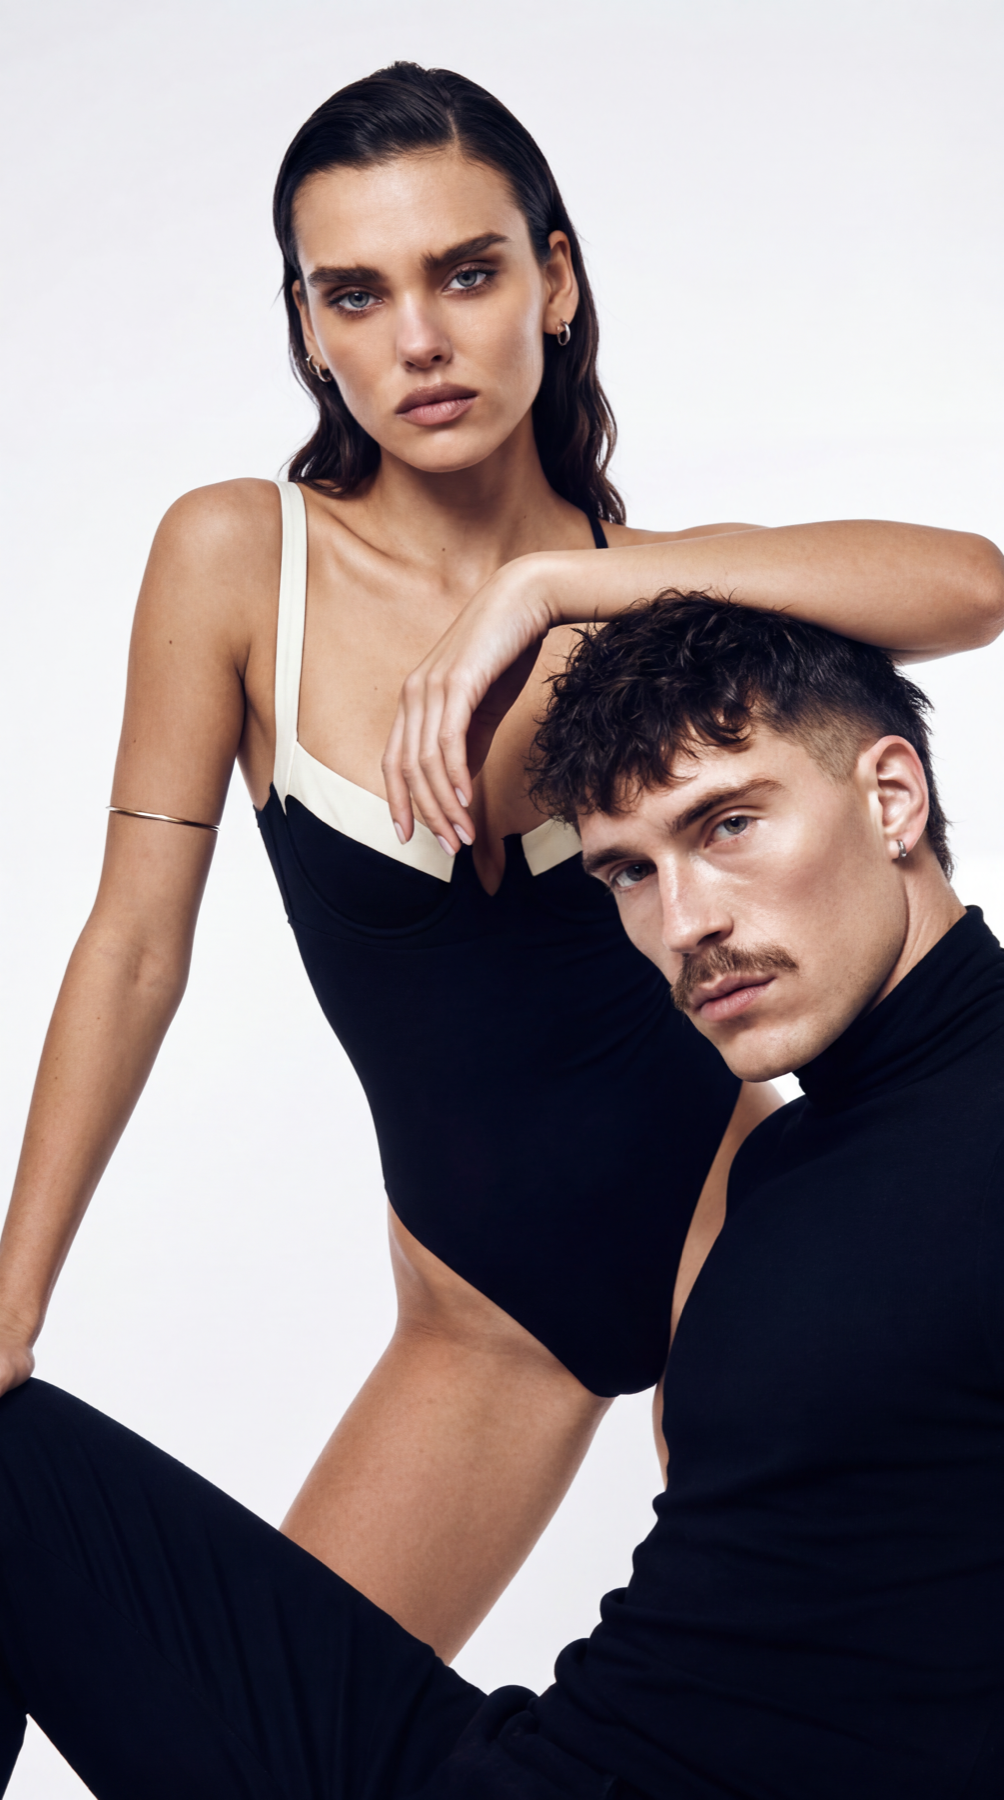
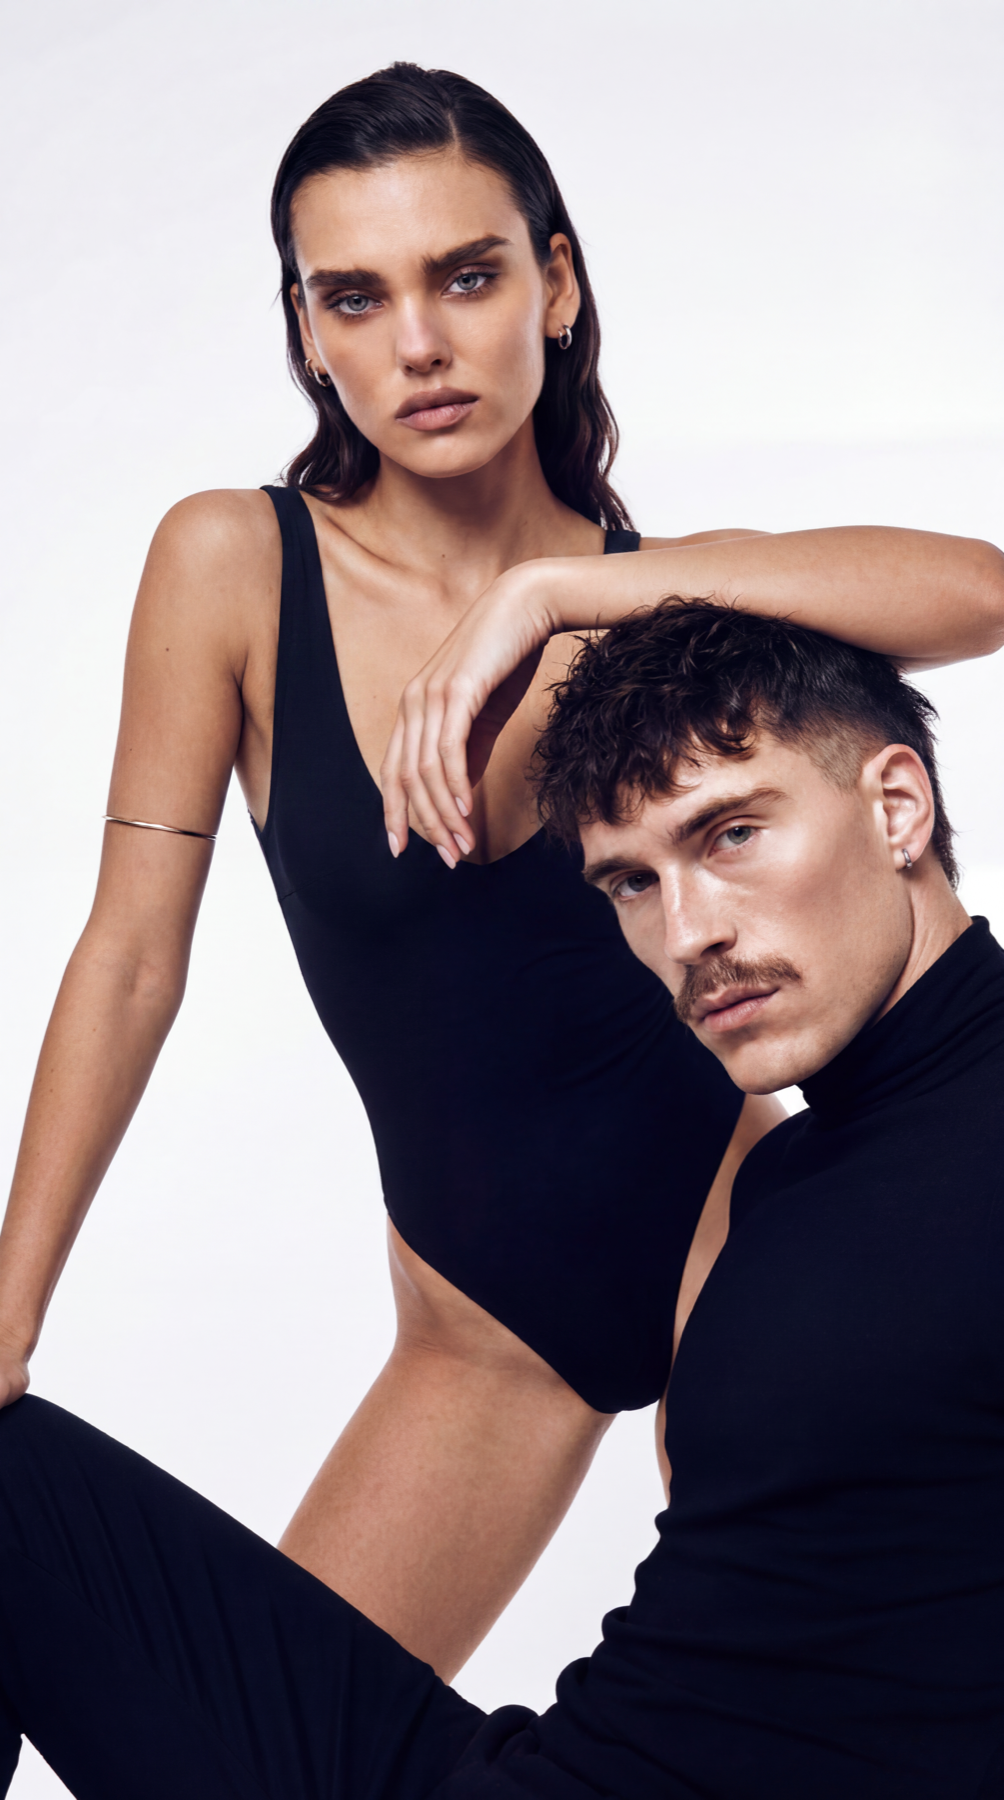
Mise à jour landing: galerie Enyo (collection rose), CTA appel & contacts
- Galerie Enyo: 3 nouveaux visuels collection rose + réorganisation
- Section process: bouton "Réserver un appel" (Calendly)
- Section À propos: liens LinkedIn + email
- Nouveaux visuels About, process et cover Monday

diff --git a/business.html b/business.html
@@ -106,18 +106,16 @@
   /* ---------- WHY ---------- */
   .why-head{display:grid;grid-template-columns:1.05fr .95fr;gap:48px;align-items:end}
   .why-head .sec-intro{padding-bottom:6px}
-  .adv-grid{display:grid;grid-template-columns:repeat(2,1fr);gap:1px;margin-top:60px;background:rgba(255,255,255,.09);border:1px solid rgba(255,255,255,.12);border-radius:24px;overflow:hidden;box-shadow:0 30px 80px -40px rgba(0,0,0,.8)}
-  .adv-card{background:rgba(16,13,11,.62);backdrop-filter:blur(14px) saturate(140%);-webkit-backdrop-filter:blur(14px) saturate(140%);padding:46px 44px;display:flex;flex-direction:column;transition:background .45s}
-  .adv-card:hover{background:rgba(28,22,18,.7)}
-  .adv-top{display:flex;justify-content:space-between;align-items:center;margin-bottom:30px}
-  .adv-idx{font-size:.74rem;font-weight:600;letter-spacing:2px;color:var(--muted)}
-  .adv-ic{width:42px;height:42px;border-radius:50%;border:1px solid var(--line);display:flex;align-items:center;justify-content:center;color:var(--gold);transition:.4s}
+  .adv-grid{display:grid;grid-template-columns:repeat(4,1fr);gap:0;margin-top:48px;border-top:1px solid rgba(255,255,255,.14)}
+  .adv-card{padding:34px 30px 0;border-left:1px solid rgba(255,255,255,.12);display:flex;flex-direction:column}
+  .adv-card:first-child{border-left:none;padding-left:0}
+  .adv-ic{width:40px;height:40px;border-radius:50%;border:1px solid var(--line);display:flex;align-items:center;justify-content:center;color:var(--gold);margin-bottom:22px;transition:.4s}
   .adv-card:hover .adv-ic{background:var(--gold);border-color:var(--gold);color:#1A140C}
-  .adv-ic svg{width:19px;height:19px;stroke:currentColor;fill:none;stroke-width:1.6;stroke-linecap:round;stroke-linejoin:round}
-  .adv-card .stat{font-size:3.4rem;font-weight:700;color:var(--white);line-height:1;letter-spacing:-.03em}
-  .adv-card .stat sup{font-size:1.2rem;color:var(--gold);font-weight:600;vertical-align:super;margin-left:2px}
-  .adv-card h3{font-size:1.3rem;margin-top:14px}
-  .adv-card p{color:var(--muted);margin-top:10px;font-size:.95rem}
+  .adv-ic svg{width:18px;height:18px;stroke:currentColor;fill:none;stroke-width:1.6;stroke-linecap:round;stroke-linejoin:round}
+  .adv-card .stat{font-size:2.7rem;font-weight:700;color:var(--white);line-height:1;letter-spacing:-.03em}
+  .adv-card .stat sup{font-size:1rem;color:var(--gold);font-weight:600;vertical-align:super;margin-left:2px}
+  .adv-card h3{font-size:1.05rem;margin-top:14px}
+  .adv-card p{color:var(--muted);margin-top:8px;font-size:.9rem;line-height:1.5}
   .adv-foot{margin-top:auto;padding-top:26px;display:flex;align-items:center;gap:9px;font-size:.83rem;font-weight:500;color:rgba(244,240,233,.85)}
   .adv-foot::before{content:"";width:18px;height:1px;background:var(--gold);flex-shrink:0}
   .bars{margin-top:24px;display:flex;flex-direction:column;gap:14px}
@@ -131,12 +129,16 @@
   .bar.hi .bv{color:var(--gold)}
 
   /* ---------- PROCESS ---------- */
-  .process-grid{display:grid;grid-template-columns:1.25fr .75fr;gap:60px;align-items:stretch}
-  .process-main{display:flex;flex-direction:column}
-  .process-grid .steps{grid-template-columns:1fr 1fr;gap:36px 32px;margin-top:auto;padding-top:48px}
-  .process-media{position:relative;border-radius:22px;overflow:hidden;background:var(--panel);border:1px solid var(--line);min-height:560px}
-  .process-media img{width:100%;height:100%;object-fit:cover;object-position:50% 25%}
-  .process-media::after{content:"";position:absolute;inset:0;z-index:1;pointer-events:none;background:linear-gradient(90deg,rgba(12,11,10,.6) 0%,transparent 26%),linear-gradient(180deg,transparent 72%,var(--bg) 100%)}
+  #process{padding:0!important}
+  .process-grid{display:grid;grid-template-columns:1.05fr .95fr;align-items:stretch;min-height:88vh}
+  .process-main{display:flex;flex-direction:column;justify-content:center;padding:120px 64px 120px max(28px,calc((100vw - 1180px)/2 + 28px))}
+  .process-grid .steps{grid-template-columns:1fr 1fr;gap:36px 32px;margin-top:56px}
+  .process-media{position:relative;overflow:hidden;background:var(--panel)}
+  .process-media img{width:100%;height:100%;object-fit:cover;object-position:50% 18%}
+  .process-media::after{content:"";position:absolute;inset:0;z-index:1;pointer-events:none;
+    background:
+      linear-gradient(90deg,var(--bg) 0%,rgba(12,11,10,.35) 14%,transparent 32%),
+      linear-gradient(180deg,transparent 75%,var(--bg) 100%);}
   .steps{display:grid;grid-template-columns:repeat(4,1fr);gap:24px;margin-top:60px}
   .step{position:relative}
   .step .num{font-size:.92rem;font-weight:600;color:var(--gold);border:1px solid rgba(201,165,114,.4);width:44px;height:44px;border-radius:50%;display:flex;align-items:center;justify-content:center;margin-bottom:22px}
@@ -228,12 +230,18 @@
     .hero-media::after{background:linear-gradient(180deg,transparent 55%,var(--bg) 100%)}
     .hero-inner{justify-self:stretch;max-width:none;padding:40px 28px 64px}
     .scroll-cue{display:none}
-    .adv-grid,.vid-grid,.steps,.proj-grid{grid-template-columns:1fr}
-    .process-grid{grid-template-columns:1fr;gap:36px}
-    .process-grid .steps{grid-template-columns:1fr 1fr;margin-top:40px;padding-top:0}
-    .process-media{order:-1;min-height:0;aspect-ratio:4/5}
+    .vid-grid,.steps,.proj-grid{grid-template-columns:1fr}
+    .adv-grid{grid-template-columns:1fr 1fr}
+    .adv-card{padding:30px 22px 0}
+    .adv-card,.adv-card:first-child{border-left:1px solid rgba(255,255,255,.12)}
+    .adv-card:nth-child(odd){border-left:none;padding-left:0}
+    .adv-card:nth-child(n+3){border-top:1px solid rgba(255,255,255,.12);padding-top:30px;margin-top:6px}
+    .process-grid{grid-template-columns:1fr;min-height:0}
+    .process-main{padding:84px 28px}
+    .process-grid .steps{grid-template-columns:1fr 1fr;margin-top:40px}
+    .process-media{order:-1;min-height:0;height:60vh}
+    .process-media::after{background:linear-gradient(180deg,transparent 60%,var(--bg) 100%)}
     .why-head{grid-template-columns:1fr;gap:18px;align-items:start}
-    .adv-card{padding:38px 30px}
     .pmodal-grid{grid-template-columns:1fr}
     .pmodal-bar{padding:18px 20px}
     .pmodal-scroll{padding:20px}
@@ -303,25 +311,25 @@
     </div>
     <div class="adv-grid">
       <div class="adv-card reveal">
-        <div class="adv-top"><span class="adv-idx">01</span><span class="adv-ic"><svg viewBox="0 0 24 24"><path d="M13 2 4 14h7l-1 8 9-12h-7l1-8z"/></svg></span></div>
+        <span class="adv-ic"><svg viewBox="0 0 24 24"><path d="M13 2 4 14h7l-1 8 9-12h-7l1-8z"/></svg></span>
         <div class="stat">7<sup data-fr="jours">days</sup></div>
         <h3 data-fr="Livraison express">Express delivery</h3>
         <p data-fr="Du brief aux fichiers finaux en une semaine.">From brief to final files in one week.</p>
       </div>
       <div class="adv-card reveal">
-        <div class="adv-top"><span class="adv-idx">02</span><span class="adv-ic"><svg viewBox="0 0 24 24"><path d="M3 12h18M3 6h18M3 18h10"/></svg></span></div>
+        <span class="adv-ic"><svg viewBox="0 0 24 24"><path d="M3 12h18M3 6h18M3 18h10"/></svg></span>
         <div class="stat">−75<sup>%</sup></div>
         <h3 data-fr="Délais réduits">Faster turnaround</h3>
         <p data-fr="Des jours, pas des semaines de production.">Days, not weeks of production.</p>
       </div>
       <div class="adv-card reveal">
-        <div class="adv-top"><span class="adv-idx">03</span><span class="adv-ic"><svg viewBox="0 0 24 24"><circle cx="12" cy="12" r="9"/><path d="M12 7v5l3 2"/></svg></span></div>
+        <span class="adv-ic"><svg viewBox="0 0 24 24"><circle cx="12" cy="12" r="9"/><path d="M12 7v5l3 2"/></svg></span>
         <div class="stat">100<sup>%</sup></div>
         <h3 data-fr="Votre identité de marque">Your brand identity</h3>
         <p data-fr="Chaque visuel calé sur votre univers de marque.">Every visual tuned to your brand world.</p>
       </div>
       <div class="adv-card reveal">
-        <div class="adv-top"><span class="adv-idx">04</span><span class="adv-ic"><svg viewBox="0 0 24 24"><path d="M3 12a9 9 0 0 1 15-6.7L21 8M21 12a9 9 0 0 1-15 6.7L3 16"/><path d="M21 4v4h-4M3 20v-4h4"/></svg></span></div>
+        <span class="adv-ic"><svg viewBox="0 0 24 24"><path d="M3 12a9 9 0 0 1 15-6.7L21 8M21 12a9 9 0 0 1-15 6.7L3 16"/><path d="M21 4v4h-4M3 20v-4h4"/></svg></span>
         <div class="stat">&infin;</div>
         <h3 data-fr="Itérations illimitées">Unlimited iterations</h3>
         <p data-fr="On affine jusqu'à votre satisfaction totale.">We refine until you're 100% happy.</p>
@@ -332,24 +340,25 @@
 
 <!-- HOW I WORK -->
 <section class="sec sec-2" id="process">
-  <div class="wrap">
-    <div class="process-grid">
-      <div class="process-main">
-        <div class="reveal">
-          <div class="eyebrow" data-fr="Comment je travaille">How I work</div>
-          <h2 class="sec-title" data-fr="Un brief. Sept jours. <em>Contenu livré.</em>">One brief. Seven days. <em>Content delivered.</em></h2>
-          <p class="sec-intro" data-fr="Un processus simple et transparent — de la première conversation à la livraison de vos fichiers.">A simple, transparent process — from the first conversation to the delivery of your files.</p>
-        </div>
-        <div class="steps">
-          <div class="step reveal"><div class="num">01</div><h3 data-fr="Appel découverte">Discovery call</h3><p data-fr="On cadre vos objectifs et votre univers de marque.">We align on your goals and brand world.</p></div>
-          <div class="step reveal"><div class="num">02</div><h3 data-fr="Direction artistique">Art direction</h3><p data-fr="Concept, références et storyboard sur-mesure.">Concept, references and storyboard, tailored.</p></div>
-          <div class="step reveal"><div class="num">03</div><h3 data-fr="Production IA">AI production</h3><p data-fr="Je produis vos visuels premium, révisions incluses.">I produce your premium visuals, revisions included.</p></div>
-          <div class="step reveal"><div class="num">04</div><h3 data-fr="Livraison">Delivery</h3><p data-fr="Vos fichiers HD prêts à publier, en 7 jours.">Your HD files ready to publish, in 7 days.</p></div>
-        </div>
+  <div class="process-grid">
+    <div class="process-main">
+      <div class="reveal">
+        <div class="eyebrow" data-fr="Comment je travaille">How I work</div>
+        <h2 class="sec-title" data-fr="Un brief. Sept jours. <em>Contenu livré.</em>">One brief. Seven days. <em>Content delivered.</em></h2>
+        <p class="sec-intro" data-fr="Un processus simple et transparent — de la première conversation à la livraison de vos fichiers.">A simple, transparent process — from the first conversation to the delivery of your files.</p>
       </div>
-      <div class="process-media reveal">
-        <img src="assets/process.png" alt="AI shoot by Chakib Zhiri" loading="lazy">
+      <div class="steps">
+        <div class="step reveal"><div class="num">01</div><h3 data-fr="Appel découverte">Discovery call</h3><p data-fr="On cadre vos objectifs et votre univers de marque.">We align on your goals and brand world.</p></div>
+        <div class="step reveal"><div class="num">02</div><h3 data-fr="Direction artistique">Art direction</h3><p data-fr="Concept, références et storyboard sur-mesure.">Concept, references and storyboard, tailored.</p></div>
+        <div class="step reveal"><div class="num">03</div><h3 data-fr="Production IA">AI production</h3><p data-fr="Je produis vos visuels premium, révisions incluses.">I produce your premium visuals, revisions included.</p></div>
+        <div class="step reveal"><div class="num">04</div><h3 data-fr="Livraison">Delivery</h3><p data-fr="Vos fichiers HD prêts à publier, en 7 jours.">Your HD files ready to publish, in 7 days.</p></div>
       </div>
+      <div class="reveal" style="margin-top:48px">
+        <a href="https://calendly.com/zhirichakib/30min" target="_blank" rel="noopener" class="btn" data-fr="Réserver un appel →">Book a call →</a>
+      </div>
+    </div>
+    <div class="process-media reveal">
+      <img src="assets/process.png" alt="AI shoot by Chakib Zhiri" loading="lazy">
     </div>
   </div>
 </section>
@@ -374,7 +383,7 @@
         </div>
       </article>
       <article class="proj-card reveal" onclick="openProject('monday')">
-        <img src="assets/monday/4.png" alt="Monday Swimwear" loading="lazy">
+        <img src="assets/monday/cover.png" alt="Monday Swimwear" loading="lazy" style="object-position:50% 22%">
         <div class="proj-ov">
           <span class="proj-count" data-fr="7 visuels">7 visuals</span>
           <div class="proj-name">Monday Swimwear</div>
@@ -465,6 +474,10 @@
           <div><div class="n">20+</div><div class="l" data-fr="Créatives / mois">Creatives / month</div></div>
           <div><div class="n" data-fr="7j">7d</div><div class="l" data-fr="Délai de livraison">Delivery time</div></div>
         </div>
+        <div class="reveal" style="margin-top:36px;display:flex;gap:14px;flex-wrap:wrap">
+          <a class="btn" href="https://www.linkedin.com/in/chakib-zhiri-1485a21b4" target="_blank" rel="noopener">LinkedIn ↗</a>
+          <a class="btn btn-ghost" href="mailto:[email redacted]">[email redacted]</a>
+        </div>
       </div>
       <div class="about-media reveal">
         <img src="assets/about.png" alt="AI creation by Chakib Zhiri" loading="lazy">
@@ -549,7 +562,7 @@
   const PROJECTS={
     merinide:{title:'Mérinide Signature',cat:{en:'Fashion · Art direction',fr:'Mode · Direction artistique'},imgs:['assets/merinide/1.png','assets/merinide/2.png','assets/merinide/3.png']},
     monday:{title:'Monday Swimwear',cat:{en:'Swimwear · AI model campaign',fr:'Swimwear · Campagne mannequin IA'},imgs:['assets/monday/1.png','assets/monday/2.png','assets/monday/3.png','assets/monday/4.png','assets/monday/5.png','assets/monday/6.png','assets/monday/7.png']},
-    enyo:{title:'Enyo Fightwear',cat:{en:'Sport · Advertising content',fr:'Sport · Contenu publicitaire'},imgs:['assets/enyo/1.png','assets/enyo/2.png','assets/enyo/3.png','assets/enyo/4.png','assets/enyo/5.png']},
+    enyo:{title:'Enyo Fightwear',cat:{en:'Sport · Advertising content',fr:'Sport · Contenu publicitaire'},imgs:['assets/enyo/1.png','assets/enyo/2.png','assets/enyo/8.png','assets/enyo/9.png','assets/enyo/10.png','assets/enyo/11.png']},
     hastko:{title:'HASTKO',cat:{en:'Fashion · Art direction',fr:'Mode · Direction artistique'},imgs:['assets/hastko/5.png','assets/hastko/1.jpg','assets/hastko/2.png','assets/hastko/3.png','assets/hastko/4.png']}
   };
   const pmodal=document.getElementById('pmodal'),pgrid=document.getElementById('pmodalGrid');